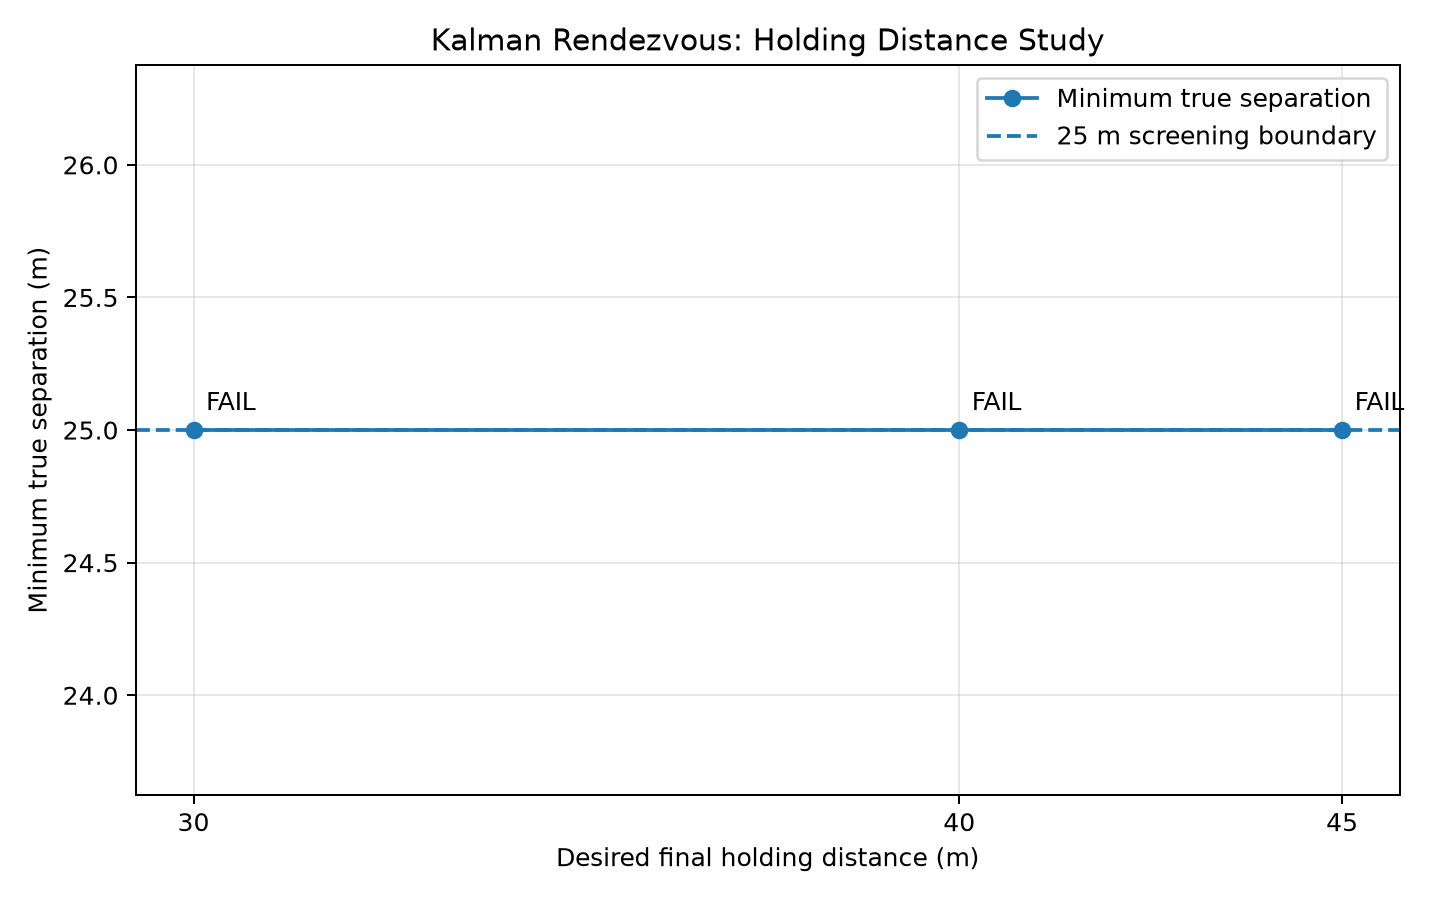
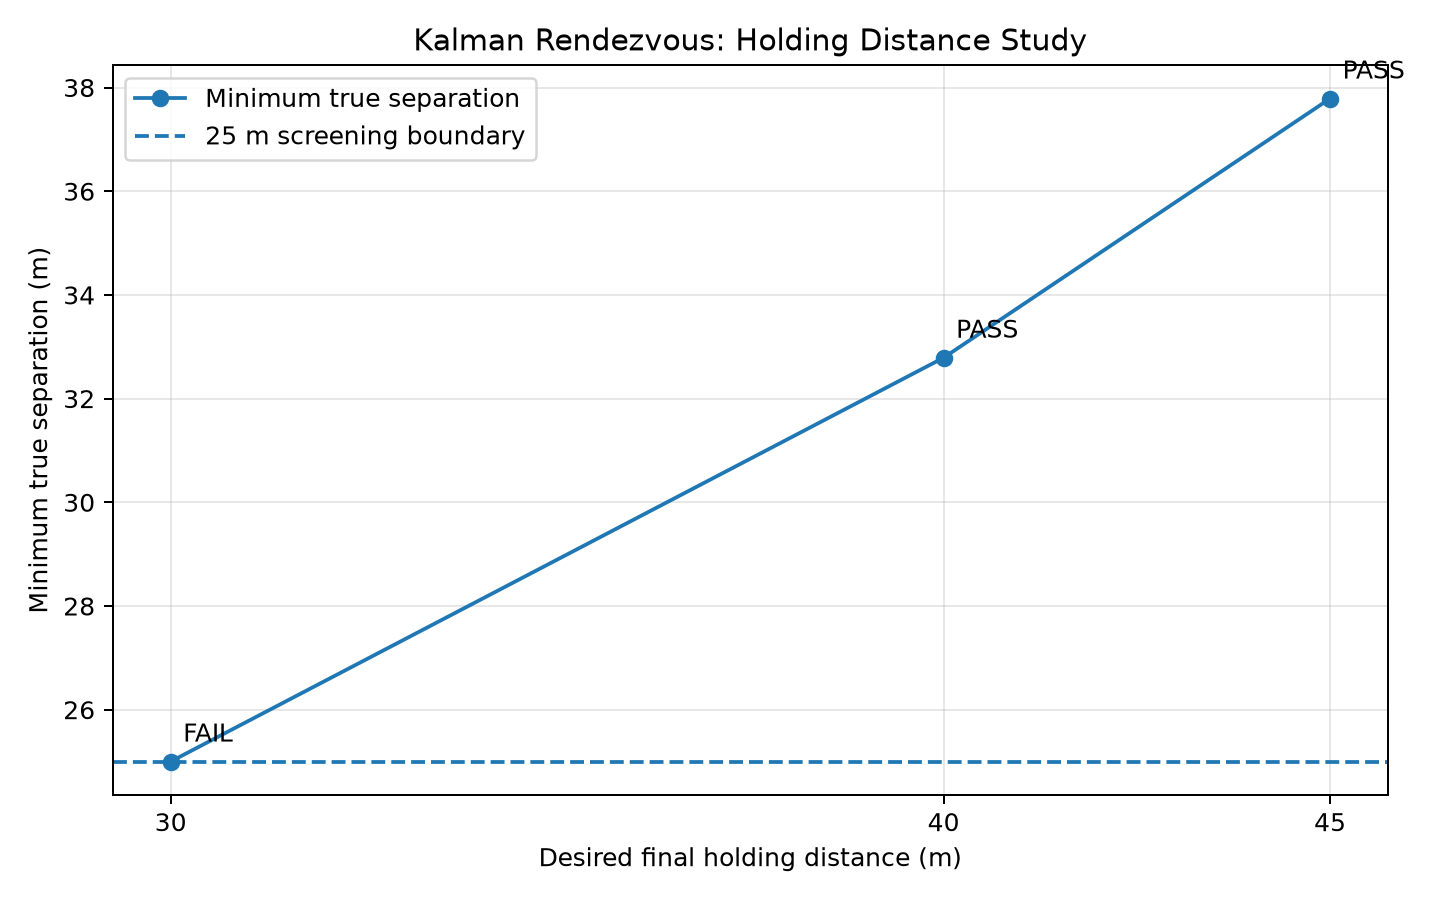
Correct final holding distance sensitivity analysis

diff --git a/scripts/run_kalman_closed_loop.py b/scripts/run_kalman_closed_loop.py
@@ -89,6 +89,7 @@ def propagate(eci, command, t0, t1):
 
 
 
+
 def run_mission(
     use_kalman,
     seed=SEED,
@@ -97,18 +98,21 @@ def run_mission(
     final_hold_m=30.0,
 ):
 
+    # Allow different final holding distances
+    if not np.isfinite(final_hold_m) or not (
+        SCREENING_RANGE < final_hold_m < 50.0
+    ):
+        raise ValueError("Final hold must be between 25 and 50 m")
+
+    # Copy waypoints so the original mission is unchanged
+    waypoints = [wp.copy() for wp in WAYPOINTS]
+    waypoints[2][1] = -final_hold_m
+
+
 
     """Run one complete rendezvous with or without state estimation."""
 
 
-    # Create local waypoints without changing the original mission
-    if not np.isfinite(final_hold_m) or not (
-        SCREENING_RANGE < final_hold_m < 50.0
-    ):
-        raise ValueError("Final hold must be between 25 m and 50 m")
-
-    waypoints = [wp.copy() for wp in WAYPOINTS]
-    waypoints[-1][1] = -final_hold_m
 
     rng = np.random.default_rng(seed)
 
@@ -184,14 +188,14 @@ def run_mission(
         # Check whether the current waypoint is reached
         if stage < 2 and waypoint_reached(
             used_state,
-            WAYPOINTS[stage],
+            waypoints[stage],
             POSITION_TOLERANCE,
             VELOCITY_TOLERANCE,
         ):
             stage += 1
 
         # Calculate LQR control using the selected state
-        error = used_state - WAYPOINTS[stage]
+        error = used_state - waypoints[stage]
         requested = -K @ error
 
         command = saturate_acceleration(
@@ -243,11 +247,11 @@ def run_mission(
 
     # Evaluate final performance using the true state
     position_error = np.linalg.norm(
-        truth[:3] - WAYPOINTS[2][:3]
+        truth[:3] - waypoints[2][:3]
     )
 
     velocity_error = np.linalg.norm(
-        truth[3:] - WAYPOINTS[2][3:]
+        truth[3:] - waypoints[2][3:]
     )
 
     success = (
